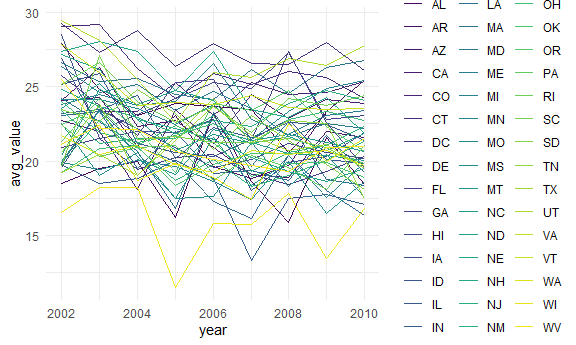
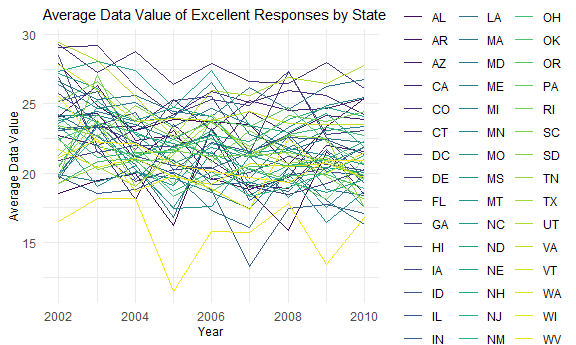
Additional graph adjustments

diff --git a/p8105_hw3_acm2268.md b/p8105_hw3_acm2268.md
@@ -107,8 +107,8 @@ aisle, department.
 There are 134 aisles and the most items are ordered from aisles 83, 24,
 123.
 
-\#\#Plotting the number of itms ordered per aisle among aisles with &gt;
-10,000 items ordered
+\#\#Plotting the number of items ordered per aisle among aisles with
+&gt; 10,000 items ordered
 
 ``` r
 n_items_df = instacart %>% 
@@ -116,40 +116,17 @@ n_items_df = instacart %>%
   summarize(n = n()) %>%
   mutate(
     aisle = factor(aisle),
-    fct_reorder(aisle, n)
-  )
+  ) %>%
+  filter(n > 10000)
 ```
 
     ## `summarise()` has grouped output by 'aisle'. You can override using the `.groups` argument.
 
 ``` r
-filter(n_items_df, n > 10000) %>%
-print()
-```
-
-    ## # A tibble: 39 x 4
-    ## # Groups:   aisle [39]
-    ##    aisle                    department       n `fct_reorder(aisle, n)` 
-    ##    <fct>                    <chr>        <int> <fct>                   
-    ##  1 baby food formula        babies       13198 baby food formula       
-    ##  2 baking ingredients       pantry       13088 baking ingredients      
-    ##  3 bread                    bakery       23635 bread                   
-    ##  4 butter                   dairy eggs   10575 butter                  
-    ##  5 candy chocolate          snacks       11453 candy chocolate         
-    ##  6 canned jarred vegetables canned goods 12679 canned jarred vegetables
-    ##  7 canned meals beans       canned goods 11774 canned meals beans      
-    ##  8 cereal                   breakfast    16201 cereal                  
-    ##  9 chips pretzels           snacks       31269 chips pretzels          
-    ## 10 crackers                 snacks       19592 crackers                
-    ## # ... with 29 more rows
-
-``` r
-ggplot(n_items_df, aes(x = aisle, y = n)) + 
-  geom_bar(stat = "identity", fill = "blue") +
-  theme(axis.text.x = element_text(family = "Arial", angle = 45)) +
-  labs(x = "Aisle Name", y = "Number Ordered") +
-  scale_size_area(max_size = 10) +
-  theme_bw()
+ggplot(n_items_df, aes(x = reorder(aisle, -n), y = n)) + 
+  geom_bar(stat = "identity", fill = "lightblue2") +
+  theme(axis.text.x = element_text(size = 9, angle = 60, hjust = 1)) +
+  labs(x = "Aisle Name", y = "Number Ordered", title = "Number of Items Ordered per Aisle")
 ```
 
 <img src="p8105_hw3_acm2268_files/figure-gfm/p1_plot_n_items_ordered-1.png" width="90%" />
@@ -167,28 +144,31 @@ pop_items_df = instacart %>%
     filter(popular_rank <= 3) %>%
   arrange(aisle, popular_rank)
   
-print(pop_items_df)
+knitr::kable(pop_items_df, 
+             digits = 1,
+             caption = "*3 Most Popular Items Ordered*")
 ```
 
-    ## # A tibble: 9 x 4
-    ## # Groups:   aisle [3]
-    ##   aisle                      product_name                         n popular_rank
-    ##   <chr>                      <chr>                            <int>        <int>
-    ## 1 baking ingredients         Light Brown Sugar                  157            1
-    ## 2 baking ingredients         Pure Baking Soda                   140            2
-    ## 3 baking ingredients         Organic Vanilla Extract            122            3
-    ## 4 dog food care              Organix Grain Free Chicken & Ve~    14            1
-    ## 5 dog food care              Organix Chicken & Brown Rice Re~    13            2
-    ## 6 dog food care              Original Dry Dog                     9            3
-    ## 7 packaged vegetables fruits Organic Baby Spinach              3324            1
-    ## 8 packaged vegetables fruits Organic Raspberries               1920            2
-    ## 9 packaged vegetables fruits Organic Blueberries               1692            3
+| aisle                      | product\_name                                   |    n | popular\_rank |
+|:---------------------------|:------------------------------------------------|-----:|--------------:|
+| baking ingredients         | Light Brown Sugar                               |  157 |             1 |
+| baking ingredients         | Pure Baking Soda                                |  140 |             2 |
+| baking ingredients         | Organic Vanilla Extract                         |  122 |             3 |
+| dog food care              | Organix Grain Free Chicken & Vegetable Dog Food |   14 |             1 |
+| dog food care              | Organix Chicken & Brown Rice Recipe             |   13 |             2 |
+| dog food care              | Original Dry Dog                                |    9 |             3 |
+| packaged vegetables fruits | Organic Baby Spinach                            | 3324 |             1 |
+| packaged vegetables fruits | Organic Raspberries                             | 1920 |             2 |
+| packaged vegetables fruits | Organic Blueberries                             | 1692 |             3 |
+
+*3 Most Popular Items Ordered*
 
 \#\#Table: Mean hour at which Pink Lady Apples and Coffee Ice Cream are
 ordered each day of the week
 
 ``` r
-instacart %>% 
+instacart_hour =
+  instacart %>% 
   mutate(
     order_dow = recode(order_dow, `0` = "Sunday", `1` = "Monday", `2` = "Tuesday", `3` = "Wednesday", `4` = "Thursday", `5` = "Friday", `6` = "Saturday")) %>%
   select(product_name, order_dow, order_hour_of_day) %>% 
@@ -201,12 +181,18 @@ instacart %>%
 
     ## `summarise()` has grouped output by 'product_name'. You can override using the `.groups` argument.
 
-    ## # A tibble: 2 x 8
-    ## # Groups:   product_name [2]
-    ##   product_name     Friday Monday Saturday Sunday Thursday Tuesday Wednesday
-    ##   <chr>             <dbl>  <dbl>    <dbl>  <dbl>    <dbl>   <dbl>     <dbl>
-    ## 1 Coffee Ice Cream   12.3   14.3     13.8   13.8     15.2    15.4      15.3
-    ## 2 Pink Lady Apples   12.8   11.4     11.9   13.4     11.6    11.7      14.2
+``` r
+knitr::kable(instacart_hour, 
+             digits = 1,
+             caption = "*Mean Hour Pink Lady Apples and Coffee Ice Cream are Ordered by Day*")
+```
+
+| product\_name    | Friday | Monday | Saturday | Sunday | Thursday | Tuesday | Wednesday |
+|:-----------------|-------:|-------:|---------:|-------:|---------:|--------:|----------:|
+| Coffee Ice Cream |   12.3 |   14.3 |     13.8 |   13.8 |     15.2 |    15.4 |      15.3 |
+| Pink Lady Apples |   12.8 |   11.4 |     11.9 |   13.4 |     11.6 |    11.7 |      14.2 |
+
+*Mean Hour Pink Lady Apples and Coffee Ice Cream are Ordered by Day*
 
 \#Question 2: BRFSS
 
@@ -342,48 +328,61 @@ brfss_df = select(brfss_smart2010, year = Year, state_abbr = Locationabbr, locat
 observed in 2002 and 2010
 
 ``` r
-brfss_df %>%
+brfss_02_df = brfss_df %>%
  filter(year == 2002) %>%
   group_by(state_abbr) %>%
   summarize(n_locations = n_distinct(location_desc)) %>%
   filter(n_locations > 6)
+
+knitr::kable(brfss_02_df, 
+             digits = 1,
+             caption = "*The Number of Locations for States Observed at > 6 Locations in 2002*")
 ```
 
-    ## # A tibble: 6 x 2
-    ##   state_abbr n_locations
-    ##   <chr>            <int>
-    ## 1 CT                   7
-    ## 2 FL                   7
-    ## 3 MA                   8
-    ## 4 NC                   7
-    ## 5 NJ                   8
-    ## 6 PA                  10
+| state\_abbr | n\_locations |
+|:------------|-------------:|
+| CT          |            7 |
+| FL          |            7 |
+| MA          |            8 |
+| NC          |            7 |
+| NJ          |            8 |
+| PA          |           10 |
+
+*The Number of Locations for States Observed at &gt; 6 Locations in
+2002*
 
 ``` r
-brfss_df %>%
+brfss_10_df = 
+  brfss_df %>%
  filter(year == 2010) %>%
   group_by(state_abbr) %>%
   summarize(n_locations = n_distinct(location_desc)) %>%
   filter(n_locations > 6)
+
+knitr::kable(brfss_10_df, 
+             digits = 1,
+             caption = "*The Number of Locations for States Observed at > 6 Locations in 2010*")
 ```
 
-    ## # A tibble: 14 x 2
-    ##    state_abbr n_locations
-    ##    <chr>            <int>
-    ##  1 CA                  12
-    ##  2 CO                   7
-    ##  3 FL                  41
-    ##  4 MA                   9
-    ##  5 MD                  12
-    ##  6 NC                  12
-    ##  7 NE                  10
-    ##  8 NJ                  19
-    ##  9 NY                   9
-    ## 10 OH                   8
-    ## 11 PA                   7
-    ## 12 SC                   7
-    ## 13 TX                  16
-    ## 14 WA                  10
+| state\_abbr | n\_locations |
+|:------------|-------------:|
+| CA          |           12 |
+| CO          |            7 |
+| FL          |           41 |
+| MA          |            9 |
+| MD          |           12 |
+| NC          |           12 |
+| NE          |           10 |
+| NJ          |           19 |
+| NY          |            9 |
+| OH          |            8 |
+| PA          |            7 |
+| SC          |            7 |
+| TX          |           16 |
+| WA          |           10 |
+
+*The Number of Locations for States Observed at &gt; 6 Locations in
+2010*
 
 In 2002, the states Connecticut, Florida, Massachusetts, North Carolina,
 New Jersey, and Pennsylvania were observed at 7 or more locations. In
@@ -402,7 +401,13 @@ excellent_df = select(brfss_df, year, state_abbr, data_value, location_desc, res
   select(-data_value) 
 
 ggplot(data = excellent_df, aes(x = year, y = avg_value, color = state_abbr)) +
-  geom_line(data = excellent_df) + theme(legend.position = "right")
+  geom_line(data = excellent_df) + 
+  theme(
+    plot.title = element_text(size = 11),
+    axis.title.x = element_text(size = 9),
+    axis.title.y = element_text(size = 9),
+    legend.position = "right") +
+  labs(x = "Year", y = "Average Data Value", title = "Average Data Value of Excellent Responses by State")
 ```
 
 <img src="p8105_hw3_acm2268_files/figure-gfm/p2_excellent_resp-1.png" width="90%" />
@@ -418,7 +423,7 @@ ny_df = select(brfss_df, year, state_abbr, location_desc, response, data_value) 
 ggplot(ny_df, aes(x = data_value, fill = response)) + 
   geom_density(alpha = .4, adjust = .5, color = "blue") +
   facet_grid(. ~ year) +
-  labs(x = "Data Values", y = "Density", title = "Distribution of Data Values by Response Type among Locations in NY State: 2006 vs. 2010")
+  labs(x = "Data Values", y = "Density", title = "Distribution of Data Values by Response in NY State")
 ```
 
 <img src="p8105_hw3_acm2268_files/figure-gfm/unnamed-chunk-1-1.png" width="90%" />
@@ -465,25 +470,54 @@ view(accel_cleaned)
 \#\#Aggregate across minutes to create a total activity variable
 
 ``` r
-accel_cleaned %>% 
+accel_tot_act = accel_cleaned %>% 
   group_by(day_id) %>%
   summarize(total_activity = sum(activity_count))
+
+knitr::kable(accel_tot_act, 
+             digits = 2,
+             caption = "*Total Accelerometer Activity per Day Observed*")
 ```
 
-    ## # A tibble: 35 x 2
-    ##    day_id total_activity
-    ##     <dbl>          <dbl>
-    ##  1      1        480543.
-    ##  2      2         78828.
-    ##  3      3        376254 
-    ##  4      4        631105 
-    ##  5      5        355924.
-    ##  6      6        307094.
-    ##  7      7        340115.
-    ##  8      8        568839 
-    ##  9      9        295431 
-    ## 10     10        607175 
-    ## # ... with 25 more rows
+| day\_id | total\_activity |
+|--------:|----------------:|
+|       1 |       480542.62 |
+|       2 |        78828.07 |
+|       3 |       376254.00 |
+|       4 |       631105.00 |
+|       5 |       355923.64 |
+|       6 |       307094.24 |
+|       7 |       340115.01 |
+|       8 |       568839.00 |
+|       9 |       295431.00 |
+|      10 |       607175.00 |
+|      11 |       422018.00 |
+|      12 |       474048.00 |
+|      13 |       423245.00 |
+|      14 |       440962.00 |
+|      15 |       467420.00 |
+|      16 |       685910.00 |
+|      17 |       382928.00 |
+|      18 |       467052.00 |
+|      19 |       371230.00 |
+|      20 |       381507.00 |
+|      21 |       468869.00 |
+|      22 |       154049.00 |
+|      23 |       409450.00 |
+|      24 |         1440.00 |
+|      25 |       260617.00 |
+|      26 |       340291.00 |
+|      27 |       319568.00 |
+|      28 |       434460.00 |
+|      29 |       620860.00 |
+|      30 |       389080.00 |
+|      31 |         1440.00 |
+|      32 |       138421.00 |
+|      33 |       549658.00 |
+|      34 |       367824.00 |
+|      35 |       445366.00 |
+
+*Total Accelerometer Activity per Day Observed*
 
 \#\#Create a plot that shows the 24-hour activity time courses for each
 day
